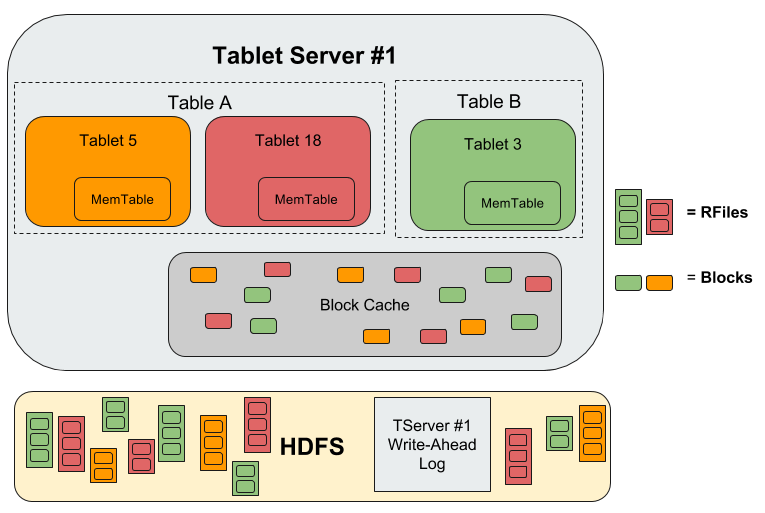
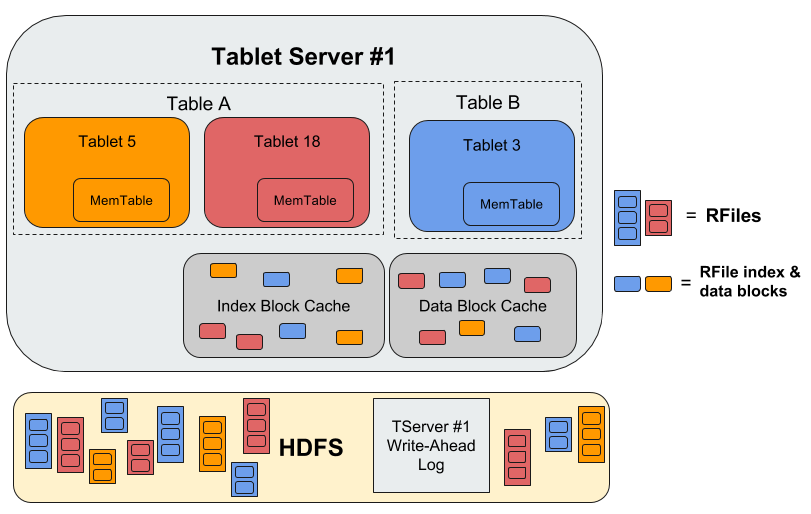
CR update

diff --git a/_docs-2-0/administration/caching.md b/_docs-2-0/administration/caching.md
@@ -4,26 +4,27 @@ category: administration
 order: 11
 ---
 
-Accumulo tablet servers have a **block cache** that buffers data in memory to limit reads from disk.
+Accumulo [tablet servers][tserver] have **block caches** that buffer data in memory to limit reads from disk.
 This caching has the following benefits:
 
 * reduces latency when reading data
 * helps alleviate hotspots in tables
 
-The block cache stores index and data blocks. A typical Accumulo read operation will perform a binary search
-over several index blocks followed by a linear scan of one or more data blocks. Each tablet server
-has its own block cache that is shared by all hosted tablets. Therefore, block caches are only enabled
+Each tablet server has an index and data block cache that is shared by all hosted tablets (see the [tablet server diagram][tserver]
+to learn more). A typical Accumulo read operation will perform a binary search over several index blocks followed by a linear scan
+of one or more data blocks. If these blocks are not in a cache, they will need to be retrieved from [RFiles] in HDFS. While the index
+block cache is enabled for all tables, the data block cache has to be enabled for a table by the user. It is typically only enabled
 for tables where read performance is critical.
 
 ## Configuration
 
-While the block cache is enabled by default for the Accumulo metadata tables, it must be enabled
-for all other tables by setting the following table properties to `true`:
+The index and data block caches are configured for tables by the following properties:
 
-* [table.cache.block.enable] - enables data block cache on the table
-* [table.cache.index.enable] - enables index block cache on the table
+* [table.cache.block.enable] - enables data block cache on the table (default is `false`)
+* [table.cache.index.enable] - enables index block cache on the table (default is `true`)
 
-These properties can be set in the Accumulo shell using the following command:
+While the index block cache is enabled by default for all Accumulo tables, users must enable the data block cache by
+settting [table.cache.block.enable] to `true` in the shell:
 
     config -t mytable -s table.cache.block.enable=true
 
@@ -33,12 +34,14 @@ Or programatically using [TableOperations.setProperty()][tableops]:
 conn.tableOperations().setProperty("mytable", "table.cache.block.enable", "true");
 ```
 
-The sizes of the index and data block caches can be changed from their defaults by setting
-the following properties:
+The size of the index and data block caches (which are shared by all tablets of tablet server) can be changed from
+their defaults by setting the following properties:
 
 * [tserver.cache.data.size]
 * [tserver.cache.index.size]
 
+[tserver]: {{ page.docs_baseurl }}/getting-started/design#tablet-server-1
+[RFiles]: {{ page.docs_baseurl}}/getting-started/design#rfile
 [table.cache.block.enable]: {{ page.docs_baseurl }}/administration/properties#table_cache_block_enable
 [table.cache.index.enable]: {{ page.docs_baseurl }}/administration/properties#table_cache_index_enable
 [tserver.cache.data.size]: {{ page.docs_baseurl }}/administration/properties#tserver_cache_data_size

diff --git a/_docs-2-0/getting-started/design.md b/_docs-2-0/getting-started/design.md
@@ -36,7 +36,7 @@ one Master server and many Clients.
 The TabletServer manages some subset of all the tablets (partitions of tables). This includes receiving writes from clients, persisting writes to a
 write-ahead log, sorting new key-value pairs in memory, periodically
 flushing sorted key-value pairs to new files in HDFS, and responding
-to reads from clients, forming a merge-sorted view of all keys and
+to reads from clients, forming a sorted merge view of all keys and
 values from all the files it has created and the sorted in-memory
 store.
 
